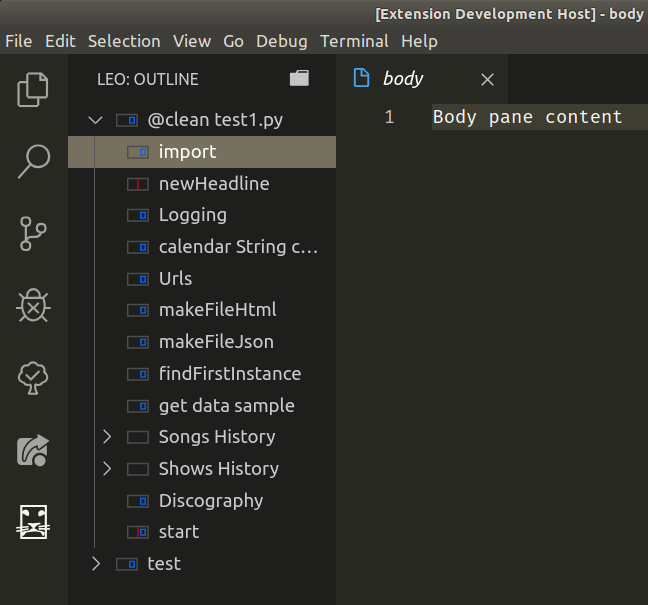
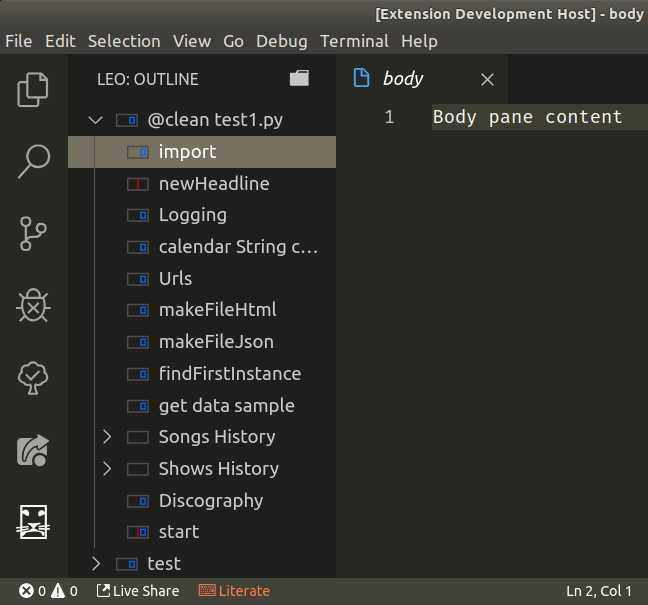
Added status bar indicator for 'leo-mode' : when focus is either on outline or body of the leo integration extension. This is when keyboard shortcuts and commands should mimic the original Leo interface.

Changed region(s): [[0.0, 0.9521, 1.0, 1.0]]

diff --git a/src/leoIntegration.ts b/src/leoIntegration.ts
@@ -45,6 +45,8 @@ export class LeoIntegration {
   public icons: string[] = [];
   public iconsInverted: boolean = false; // used to flip dirty/pristine outline of icon
 
+  public leoStatusBarItem: vscode.StatusBarItem;
+
   private callStack: LeoAction[] = [];
   private onDidChangeTreeDataObject: any;
   private onDidChangeBodyDataObject: any;
@@ -56,6 +58,35 @@ export class LeoIntegration {
       this.initLeoProcess(resolve, reject);
       this.initIconPaths();
     });
+    this.leoStatusBarItem = vscode.window.createStatusBarItem(vscode.StatusBarAlignment.Left, 0);
+    this.leoStatusBarItem.color = "#fb7c47";
+    this.leoStatusBarItem.command = "leointeg.test";
+    context.subscriptions.push(this.leoStatusBarItem);
+    this.leoStatusBarItem.hide();
+  }
+
+  // create a new status bar item that we can now manage
+
+  // leoStatusBarItem.command = myCommandId;
+
+  // register some listener that make sure the status bar
+  // item always up-to-date
+  //context.subscriptions.push(vscode.window.onDidChangeActiveTextEditor(updateStatusBarItem));
+  //context.subscriptions.push(vscode.window.onDidChangeTextEditorSelection(updateStatusBarItem));
+
+  // update status bar item once at start for now
+
+  private updateStatusBarItem(): void {
+    // let n = getNumberOfSelectedLines(vscode.window.activeTextEditor);
+    let n = 42;
+
+    if (n > 0) {
+      this.leoStatusBarItem.text = `$(keyboard) Literate `;
+      this.leoStatusBarItem.tooltip = "Leo Key Bindings are in effect";
+      this.leoStatusBarItem.show();
+    } else {
+      this.leoStatusBarItem.hide();
+    }
   }
 
   private initIconPaths(): void {
@@ -96,6 +127,8 @@ export class LeoIntegration {
     } else {
       console.log("ERROR onDidChangeTreeDataObject NOT READY");
     }
+    // update status bar for first time
+    this.updateStatusBarItem();
   }
 
   private resolveGetBody(p_jsonObject: string) {
@@ -249,27 +282,25 @@ export class LeoIntegration {
   }
 
   private processAnswer(p_data: string): void {
+    let w_processed: boolean = false;
     if (p_data.startsWith("outlineDataReady")) {
-      // * ------------------------------------- outlineDataReady
       this.resolveGetChildren(p_data.substring(16)); // ANSWER to getChildren
-      this.callAction(); // Maybe theres another action waiting to be launched, and resolved.
-      return;
+      w_processed = true;
     } else if (p_data.startsWith("bodyDataReady")) {
-      // * ------------------------------------- bodyDataReady
       this.resolveGetBody(p_data.substring(13)); // ANSWER to getChildren
-      this.callAction(); // Maybe theres another action waiting to be launched, and resolved.
-      return;
+      w_processed = true;
     } else if (p_data === "fileOpenedReady") {
-      // * ----------------------------------- fileOpenedReady
       this.resolveFileOpenedReady();
-      this.callAction(); // Maybe theres another action waiting to be launched, and resolved.
-      return;
+      w_processed = true;
     } else if (p_data === "leoBridgeReady") {
       this.resolveBridgeReady();
-      this.callAction(); // Maybe theres another action waiting to be launched, and resolved.
+      w_processed = true;
+    }
+    if (w_processed) {
+      this.callAction();
       return;
     }
-    // * --------------------- NO PROCESSED ANSWER: LOG STRING
+    // * past this point only if p_data did not match any known commands!
     if (this.leoBridgeReady) {
       console.log("from python", p_data); // unprocessed/unknown python output
     }

diff --git a/src/extension.ts b/src/extension.ts
@@ -3,6 +3,8 @@ import { LeoIntegration } from "./leoIntegration";
 import { LeoOutlineProvider } from "./leoOutline";
 import { LeoBodyProvider } from "./leoBody";
 
+let leoStatusBarItem: vscode.StatusBarItem;
+
 export function activate(context: vscode.ExtensionContext) {
   console.log('activate "leointeg" extension.');
 

diff --git a/scripts/leobridge.py b/scripts/leobridge.py
@@ -41,7 +41,7 @@ def outputOutlineData(p_pList):
 def outputTest():
     '''Emit a test'''
     global bridgeGlobals, commander
-    es('called test in python')
+    es('vsCode called test. Hello from leoBridge!')
 
 
 def openFile(p_file):
